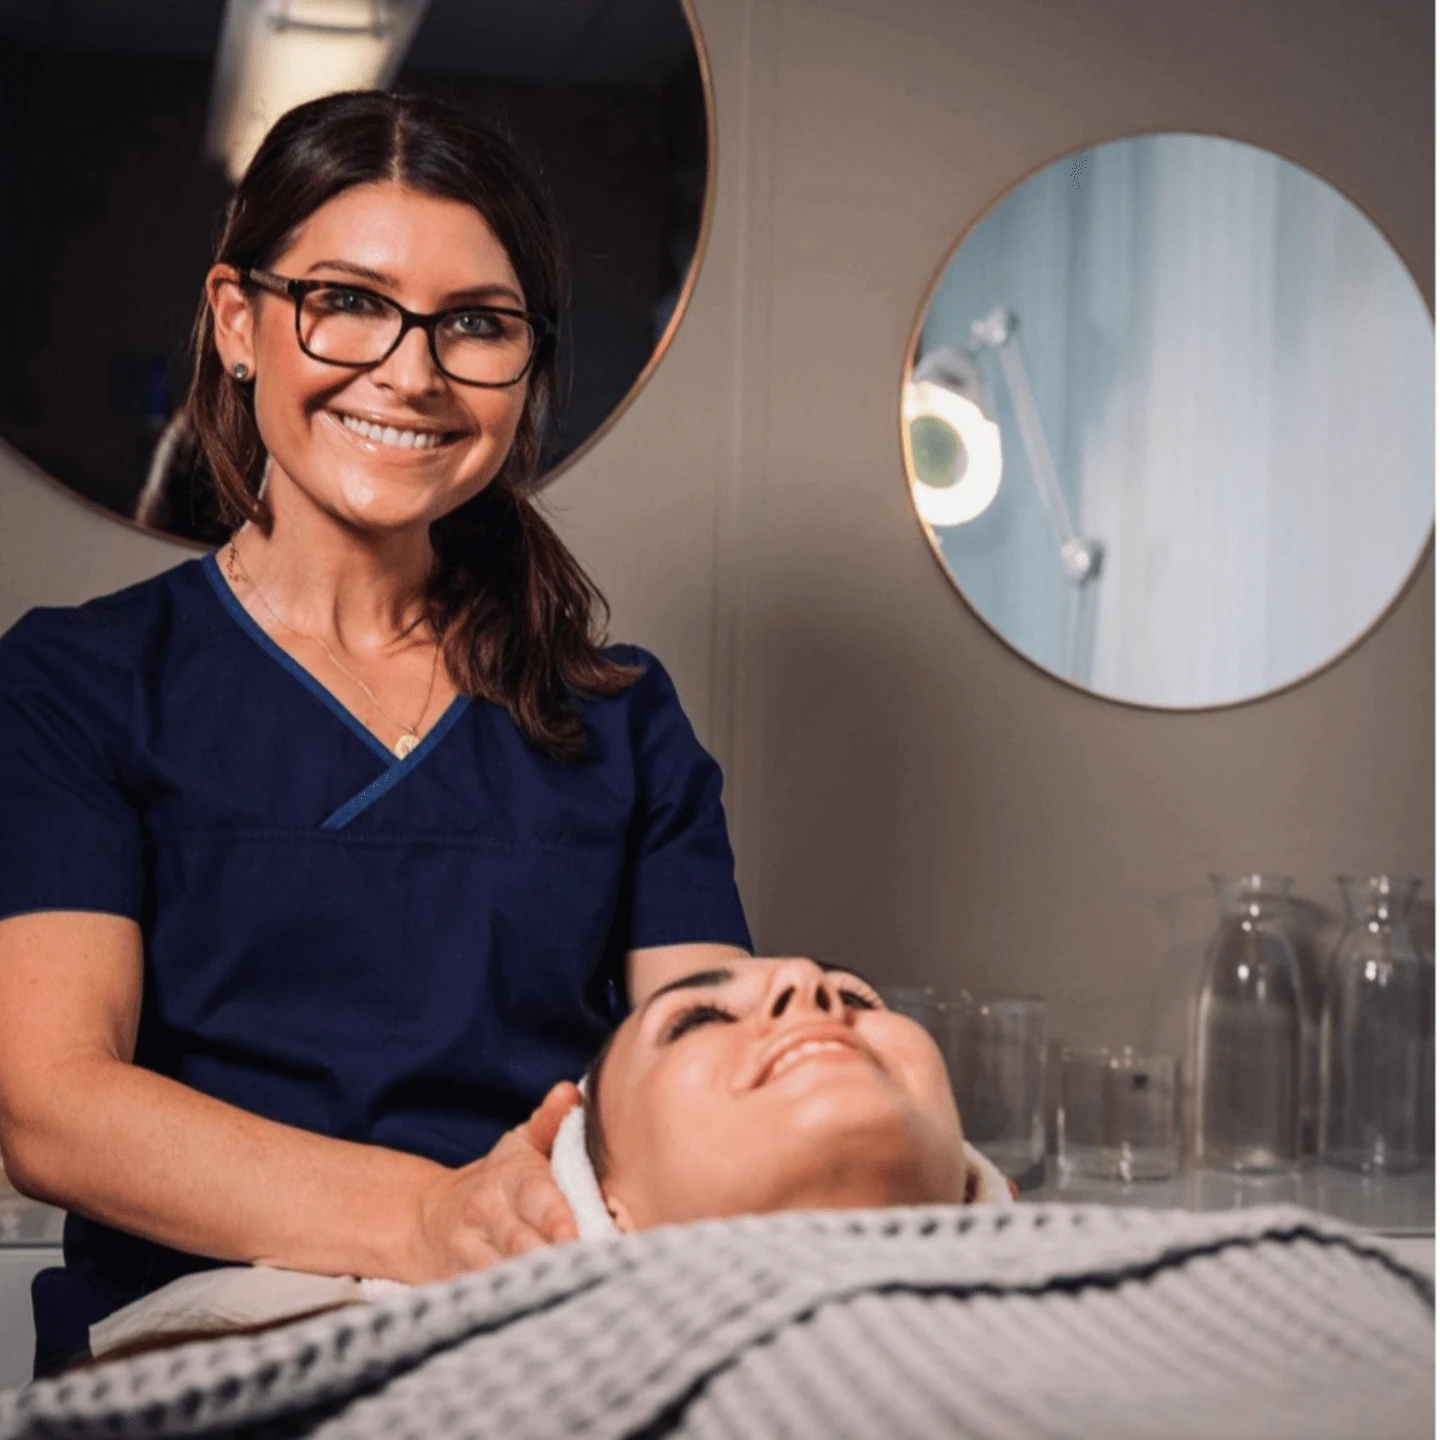
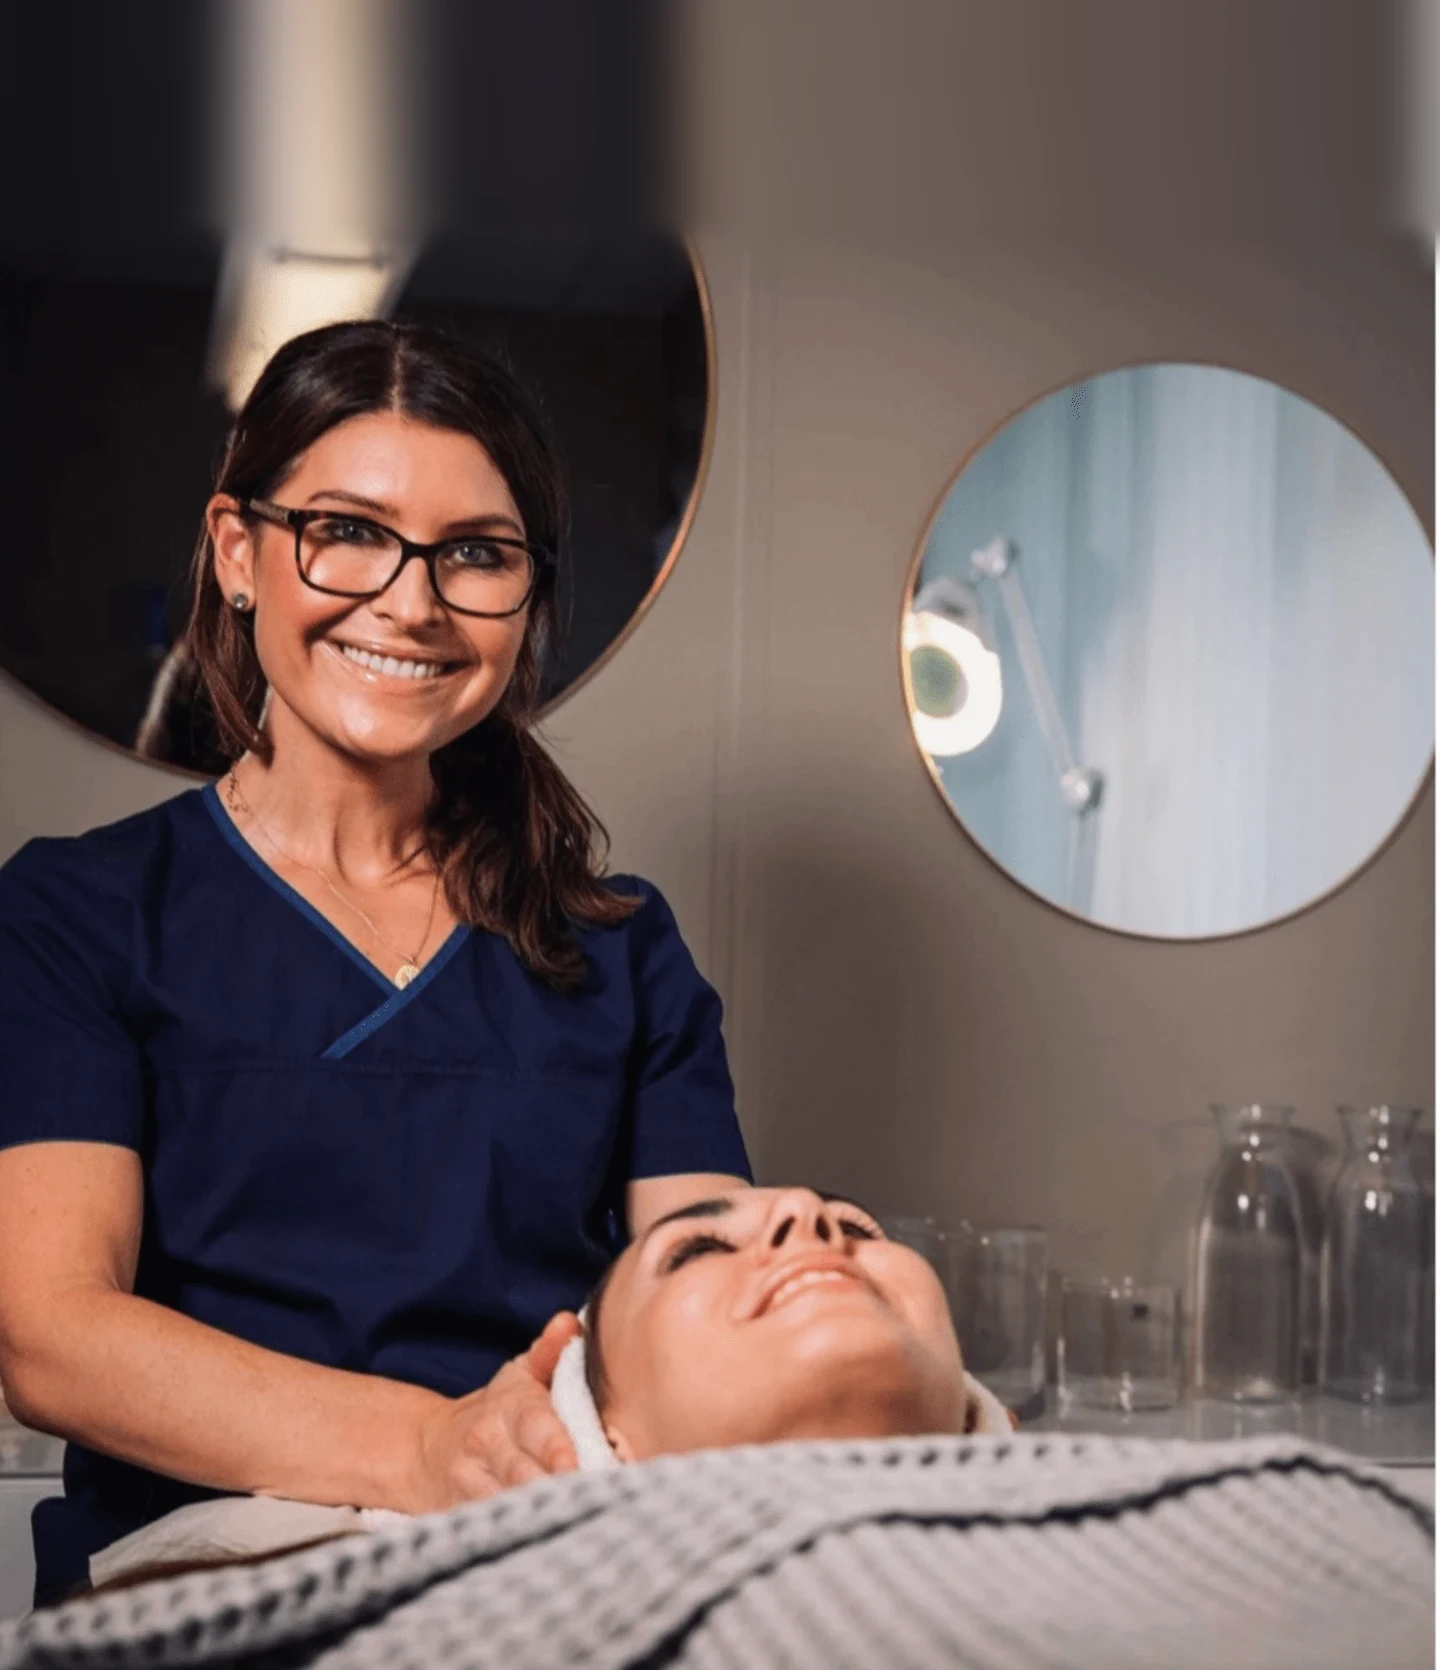
Give the hero portrait headroom that the source file never had
The photo on their Timma site is itself cropped at Marita's hairline,
so no amount of object-position or transform-origin could recover it.
The top edge is out-of-focus wall, so the canvas is extended 230px
upward from a stretched, blurred copy of that edge and the seam is
feathered. The mobile hero moves to 4/5 to show the full height.

Claude-Session: https://claude.ai/code/session_01Bc1dRNas8Q1uAbFJbtSim5

diff --git a/hudpleie.html b/hudpleie.html
@@ -184,7 +184,7 @@ button{font:inherit;color:inherit;background:none;border:0;cursor:pointer}
   .hd nav{display:none}
   .hero{grid-template-columns:1fr;min-height:0}
   .hero__t{padding:7rem var(--pad) 3rem;order:2}
-  .hero__img{order:1;aspect-ratio:1/1}
+  .hero__img{order:1;aspect-ratio:4/5}
   .about{grid-template-columns:1fr}
   .start{grid-template-columns:1fr}
   .start__img{aspect-ratio:4/3}
@@ -243,7 +243,7 @@ button{font:inherit;color:inherit;background:none;border:0;cursor:pointer}
     </div>
   </div>
   <figure class=hero__img>
-    <img src="/img/hudpleie/marita.webp" alt="Marita Torkelsen i behandlingsrommet hos Stavanger Hudpleie" width=1440 height=1440 fetchpriority=high>
+    <img src="/img/hudpleie/marita.webp" alt="Marita Torkelsen i behandlingsrommet hos Stavanger Hudpleie" width=1440 height=1670 fetchpriority=high>
     <figcaption class=hero__cap>Marita Torkelsen — hudterapeut og innehaver</figcaption>
   </figure>
 </section>
